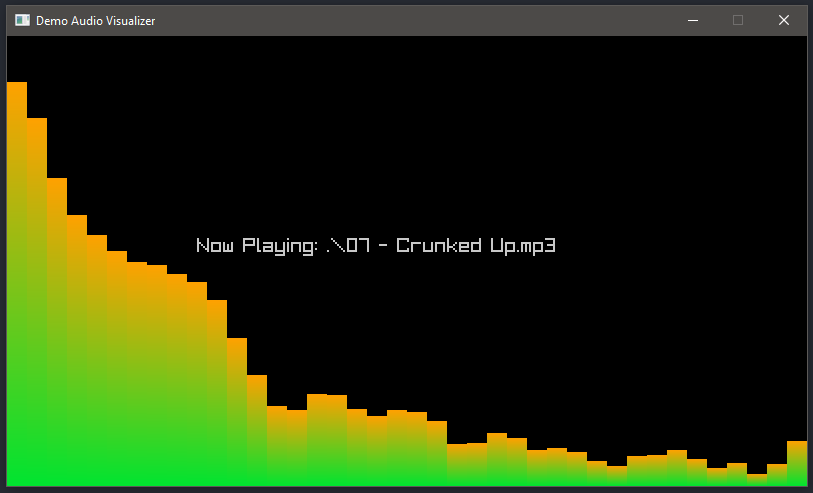
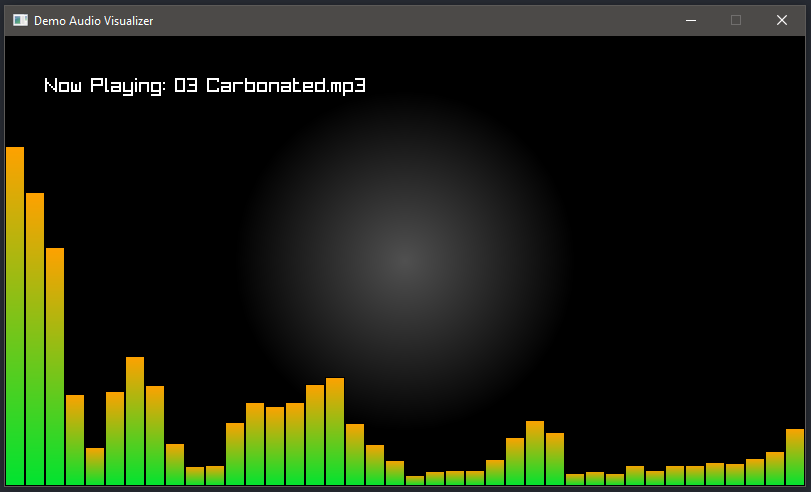
updated screenshot

diff --git a/main.go b/main.go
@@ -34,7 +34,6 @@ func play() error {
 	buf := make([]byte, numSamples)
 	freqSpectrum := make([]float64, spectrumSize)
 
-	var filePath string
 	var fileName string
 	isPlaying := false
 
@@ -49,10 +48,9 @@ func play() error {
 			files := rl.GetDroppedFiles(&count)
 			newFile := files[len(files)-1]
 			rl.ClearDroppedFiles()
-			if newFile != filePath && strings.HasSuffix(newFile, ".mp3") {
-				filePath = newFile
+			if strings.HasSuffix(newFile, ".mp3") {
 				var err error
-				fileName, err = updateFileHandlers(filePath)
+				fileName, err = updateFileHandlers(newFile)
 				if err != nil {
 					return err
 				}
